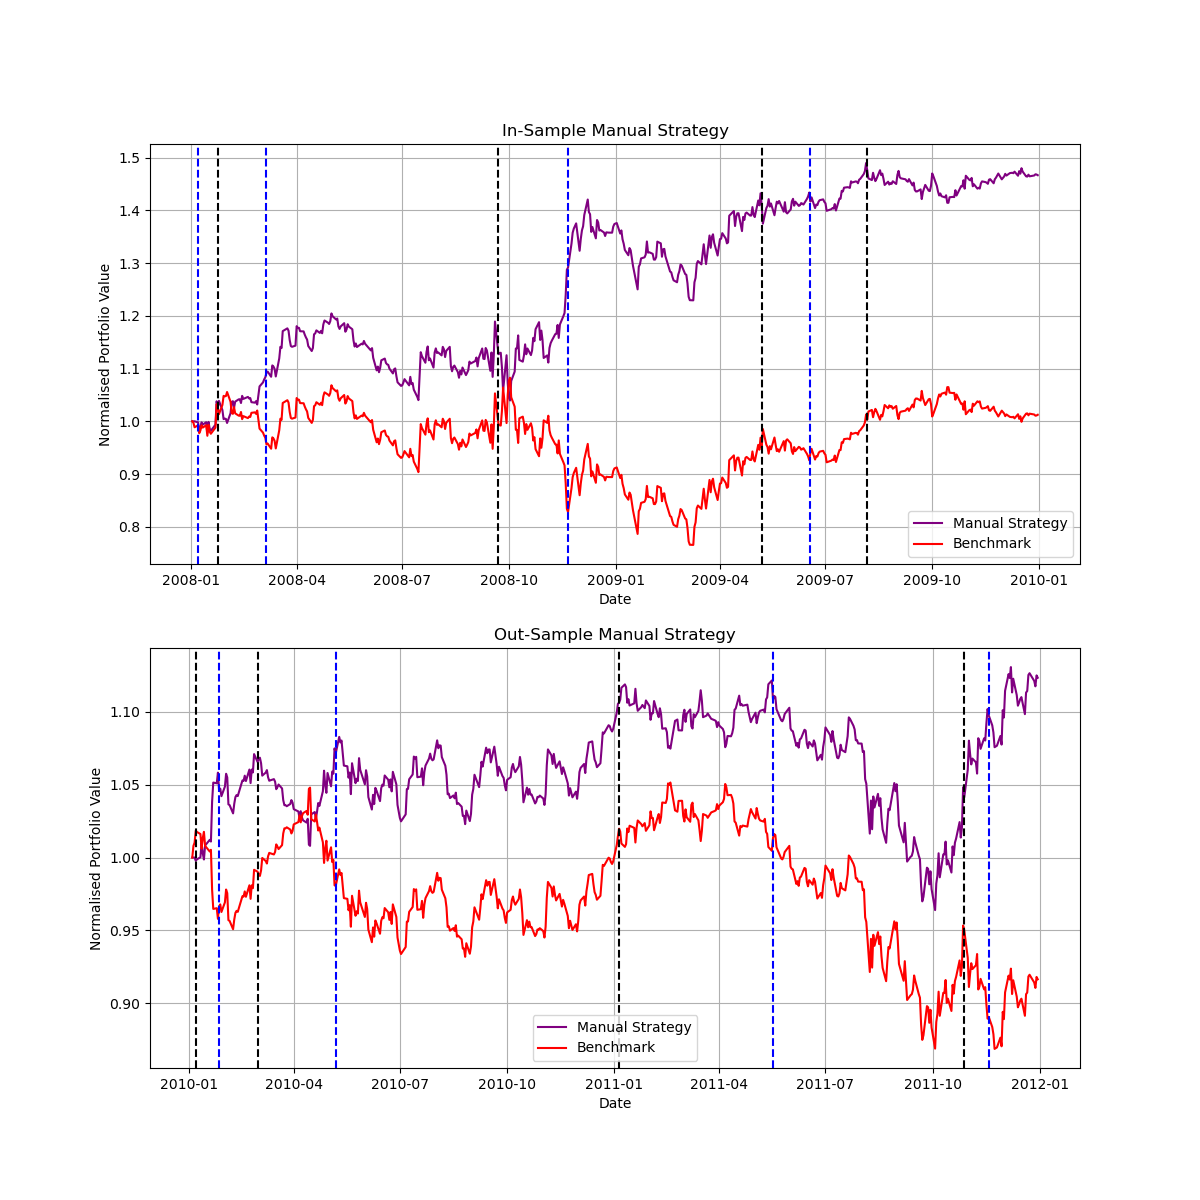
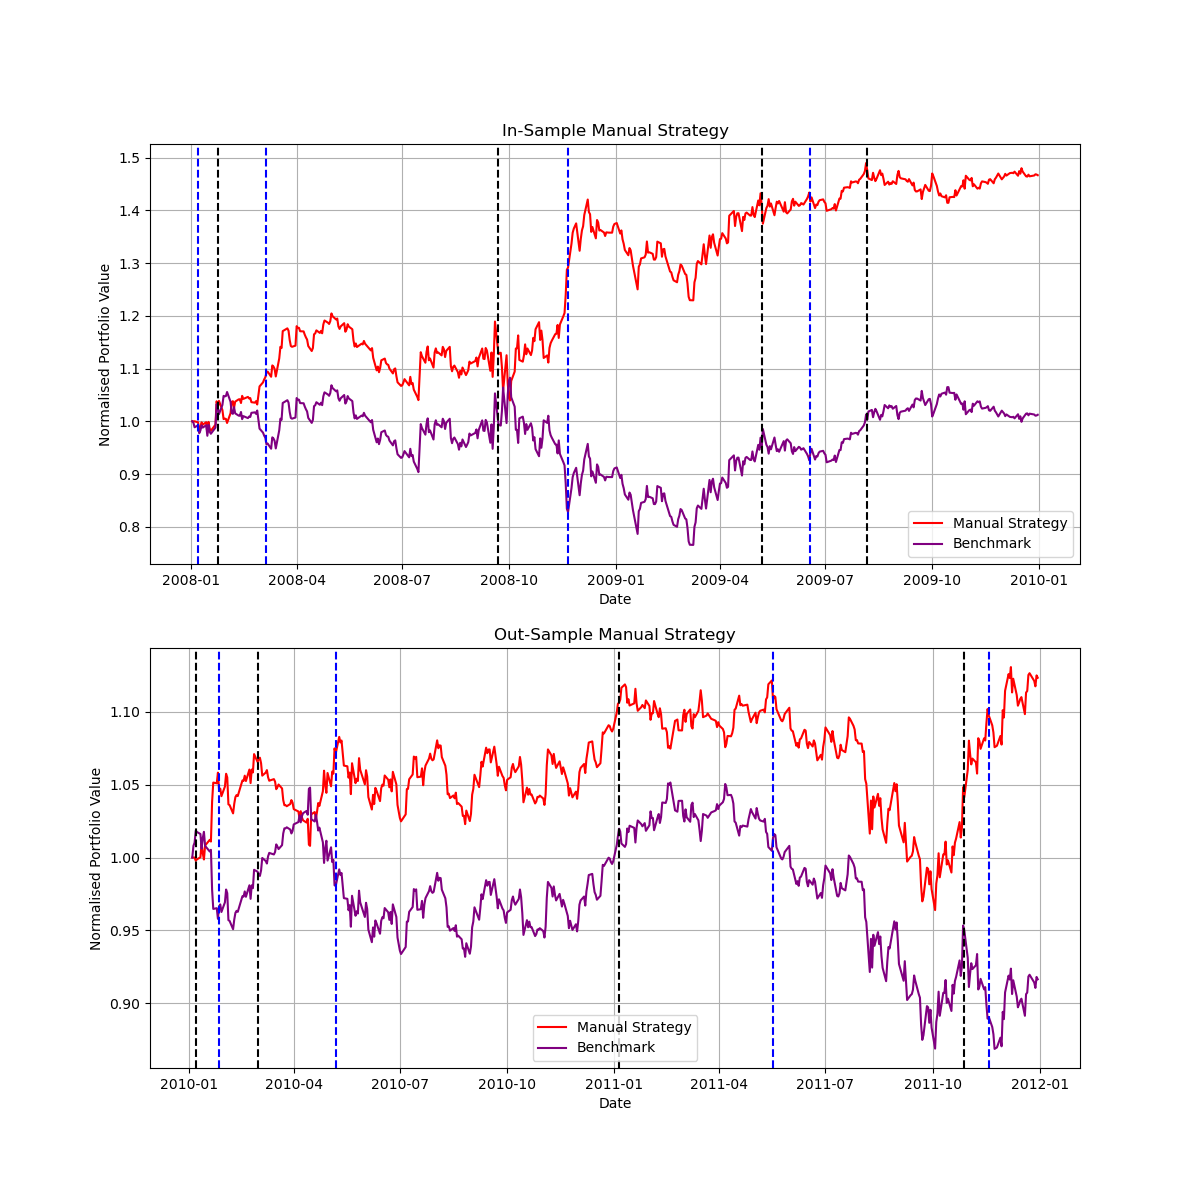
tune hyperparams and finish exp 1

diff --git a/strategy_evaluation/testproject.py b/strategy_evaluation/testproject.py
@@ -10,6 +10,8 @@ from strategy_evaluation.ManualStrategy import ManualStrategy
 from StrategyLearner import StrategyLearner
 import random as rand
 import time
+import experiment1
+import experiment2
 
 
 def author():
@@ -21,18 +23,48 @@ def study_group():
 if __name__ == "__main__":
     rand.seed(904081199)
     np.random.seed(904081199)
+
     symbol = "JPM"
-    in_sample_sd = dt.datetime(2008, 1, 1)
-    in_sample_ed = dt.datetime(2009, 12, 31)
-    out_sample_sd = dt.datetime(2010, 1, 1)
-    out_sample_ed = dt.datetime(2011, 12, 31)
+    is_sd = dt.datetime(2008, 1, 1)
+    is_ed = dt.datetime(2009, 12, 31)
+    os_sd = dt.datetime(2010, 1, 1)
+    os_ed = dt.datetime(2011, 12, 31)
     sv = 100000
     commission = 9.95
     impact = 0.005
 
     # Run Manual Strategy
     manualstrategy = ManualStrategy(verbose=False, commission=commission, impact=impact)
-    m_is_pv, m_os_pv, m_is_b_pv, m_os_b_pv = manualstrategy.run(symbol, is_sd=in_sample_sd, is_ed=in_sample_ed, os_sd=out_sample_sd, os_ed=out_sample_ed, sv=sv)
+    ms_results = manualstrategy.run(symbol, is_sd=is_sd, is_ed=is_ed, os_sd=os_sd, os_ed=os_ed, sv=sv)
+    m_is_pv, m_os_pv, is_b_pv, os_b_pv = ms_results
+
+    # Run Experiment 1
+    s_is_pv, s_os_pv = experiment1.run(
+        symbol=symbol,
+        is_sd=is_sd,
+        is_ed=is_ed,
+        os_sd=os_sd,
+        os_ed=os_ed,
+        sv=sv,
+        ms_results=ms_results,
+        commission=commission,
+        impact=impact
+    )
 
 
 
+    # ROUGH
+
+    # strategylearner = StrategyLearner(verbose=False, impact=impact, commission=commission)
+    # strategylearner.add_evidence(symbol=symbol, sd=is_sd, ed=is_ed, sv=sv)
+    #
+    # s_is_trades = strategylearner.testPolicy(symbol, sd=is_sd, ed=is_ed, sv=sv)
+    # s_os_trades = strategylearner.testPolicy(symbol, sd=os_sd, ed=os_ed, sv=sv)
+    # s_is_pv = compute_portvals(s_is_trades, start_val=sv, impact=impact, commission=commission)
+    # s_os_pv = compute_portvals(s_os_trades, start_val=sv, impact=impact, commission=commission)
+    #
+    # b_trades = pd.DataFrame(0, index=s_is_trades.index, columns=[symbol])
+    # b_trades.iloc[0] = 1000
+    # b_pv = compute_portvals(b_trades, commission=commission, impact=impact, start_val=sv)
+    #
+    # print(symbol, compute_stats(s_is_pv)[0], compute_stats(b_pv)[0], compute_stats(s_os_pv)[0])

diff --git a/strategy_evaluation/experiment1.py b/strategy_evaluation/experiment1.py
@@ -17,3 +17,57 @@ def author():
 
 def study_group():
     return "sphadnis9"
+
+def normalise(df):
+    return df/df.iloc[0]
+
+def run(
+        symbol,
+        is_sd,
+        is_ed,
+        os_sd,
+        os_ed,
+        sv,
+        ms_results,
+        commission,
+        impact
+    ):
+    m_is_pv, m_os_pv, is_b_pv, os_b_pv = ms_results
+
+    strategylearner = StrategyLearner(verbose=False, impact=impact, commission=commission)
+    strategylearner.add_evidence(symbol=symbol, sd=is_sd, ed=is_ed, sv=sv)
+
+    s_is_trades = strategylearner.testPolicy(symbol, is_sd, is_ed, sv)
+    s_os_trades = strategylearner.testPolicy(symbol, os_sd, os_ed, sv)
+
+    s_is_pv = compute_portvals(s_is_trades, start_val=sv, impact=impact, commission=commission)
+    s_os_pv = compute_portvals(s_os_trades, start_val=sv, impact=impact, commission=commission)
+
+    is_b_pv = normalise(is_b_pv)
+    os_b_pv = normalise(os_b_pv)
+
+    m_is_pv = normalise(m_is_pv)
+    m_os_pv = normalise(m_os_pv)
+
+    s_is_pv = normalise(s_is_pv)
+    s_os_pv = normalise(s_os_pv)
+
+    fig, (insample, outsample) = plt.subplots(nrows=2, ncols=1, figsize=(12, 12))
+    insample.plot(is_b_pv, color = "purple", label="Benchmark")
+    insample.plot(m_is_pv, color = "red", label="Manual Strategy")
+    insample.plot(s_is_pv, color = "orange", label = "Strategy Learner")
+    insample.grid()
+    insample.legend()
+    insample.set(xlabel='Date', ylabel='Normalised Value', title='In-Sample Portfolio Values')
+
+    outsample.plot(os_b_pv, color="purple", label="Benchmark")
+    outsample.plot(m_os_pv, color="red", label="Manual Strategy")
+    outsample.plot(s_os_pv, color="orange", label="Strategy Learner")
+    outsample.grid()
+    outsample.legend()
+    outsample.set(xlabel='Date', ylabel='Normalised Value', title='Out-Sample Portfolio Values')
+
+    fig.savefig("images/experiment1.png")
+    plt.close()
+
+    return s_is_pv, s_os_pv

diff --git a/strategy_evaluation/ManualStrategy.py b/strategy_evaluation/ManualStrategy.py
@@ -135,8 +135,8 @@ class ManualStrategy(object):
         os_short_dates = os_trades.loc[os_trades[symbol] <= -1000].index
 
         fig, (insample, outsample) = plt.subplots(figsize=(12, 12), ncols = 1, nrows = 2)
-        insample.plot(is_pv_norm, color='purple', label='Manual Strategy')
-        insample.plot(b_pv_norm, color='red', label='Benchmark')
+        insample.plot(is_pv_norm, color='red', label='Manual Strategy')
+        insample.plot(b_pv_norm, color='purple', label='Benchmark')
 
         for date in is_long_dates:
             insample.axvline(date, color='blue', linestyle='--')
@@ -148,8 +148,8 @@ class ManualStrategy(object):
         insample.grid()
         insample.set(xlabel="Date", ylabel="Normalised Portfolio Value", title="In-Sample Manual Strategy")
 
-        outsample.plot(os_pv_norm, color='purple', label='Manual Strategy')
-        outsample.plot(os_b_pv_norm, color='red', label='Benchmark')
+        outsample.plot(os_pv_norm, color='red', label='Manual Strategy')
+        outsample.plot(os_b_pv_norm, color='purple', label='Benchmark')
 
         for date in os_long_dates:
             outsample.axvline(date, color='blue', linestyle='--')
@@ -161,7 +161,8 @@ class ManualStrategy(object):
         outsample.grid()
         outsample.set(xlabel="Date", ylabel="Normalised Portfolio Value", title="Out-Sample Manual Strategy")
 
-        plt.savefig("images/manual_strategy.png")
+        fig.savefig("images/manual_strategy.png")
+        plt.close()
 
         return is_pv, os_pv, b_pv, os_b_pv
 

diff --git a/strategy_evaluation/StrategyLearner.py b/strategy_evaluation/StrategyLearner.py
@@ -63,10 +63,10 @@ class StrategyLearner(object):
         self.learner = ql.QLearner(
             num_states=27,
             num_actions=3, # 0 -> do nothing, 1 -> buy, 2 -> sell
-            alpha=0.02,
+            alpha=0.01,
             gamma=0.99,
-            rar=0.9, #prev: 0.5
-            radr=0.99, #prev: 0.999
+            rar=0.5,
+            radr=0.99,
             dyna=0,
             verbose=False,
         )
@@ -85,9 +85,9 @@ class StrategyLearner(object):
             dbbp = 2
 
         drsi = 1
-        if rsi <= 40:
+        if rsi <= 30: #prev: 40
             drsi = 0
-        elif rsi >= 60:
+        elif rsi >= 70: #prev: 60
             drsi = 2
 
         dppo = 0
@@ -198,7 +198,7 @@ class StrategyLearner(object):
                 print("\nrar: ", self.learner.rar)
                 print("\n")
 
-            if len(scores) >= 5 and (abs(scores[-2]/scores[-1] - 1) <= 0.000001) and (abs(scores[-3]/scores[-2] - 1) <= 0.000001):
+            if len(scores) >= 3 and (abs(scores[-2]/scores[-1] - 1) <= 0.000001) and (abs(scores[-3]/scores[-2] - 1) <= 0.000001):
                 self.add_evidence_trades = trades
                 break
 
